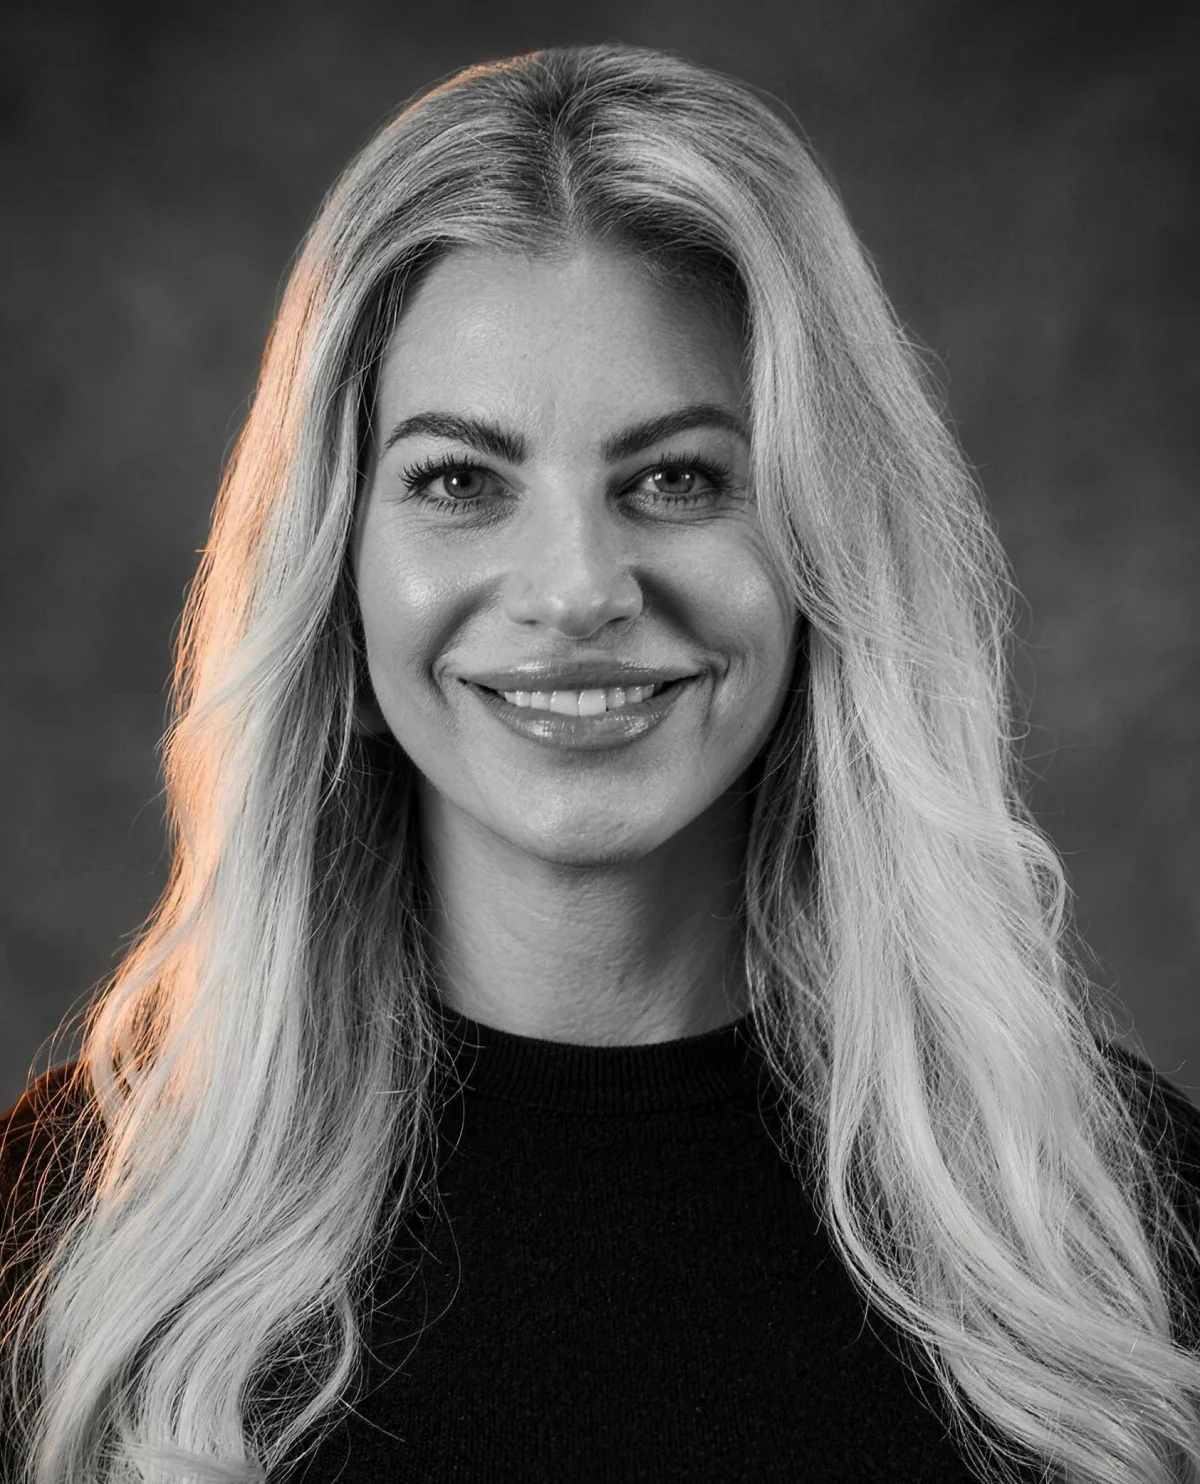
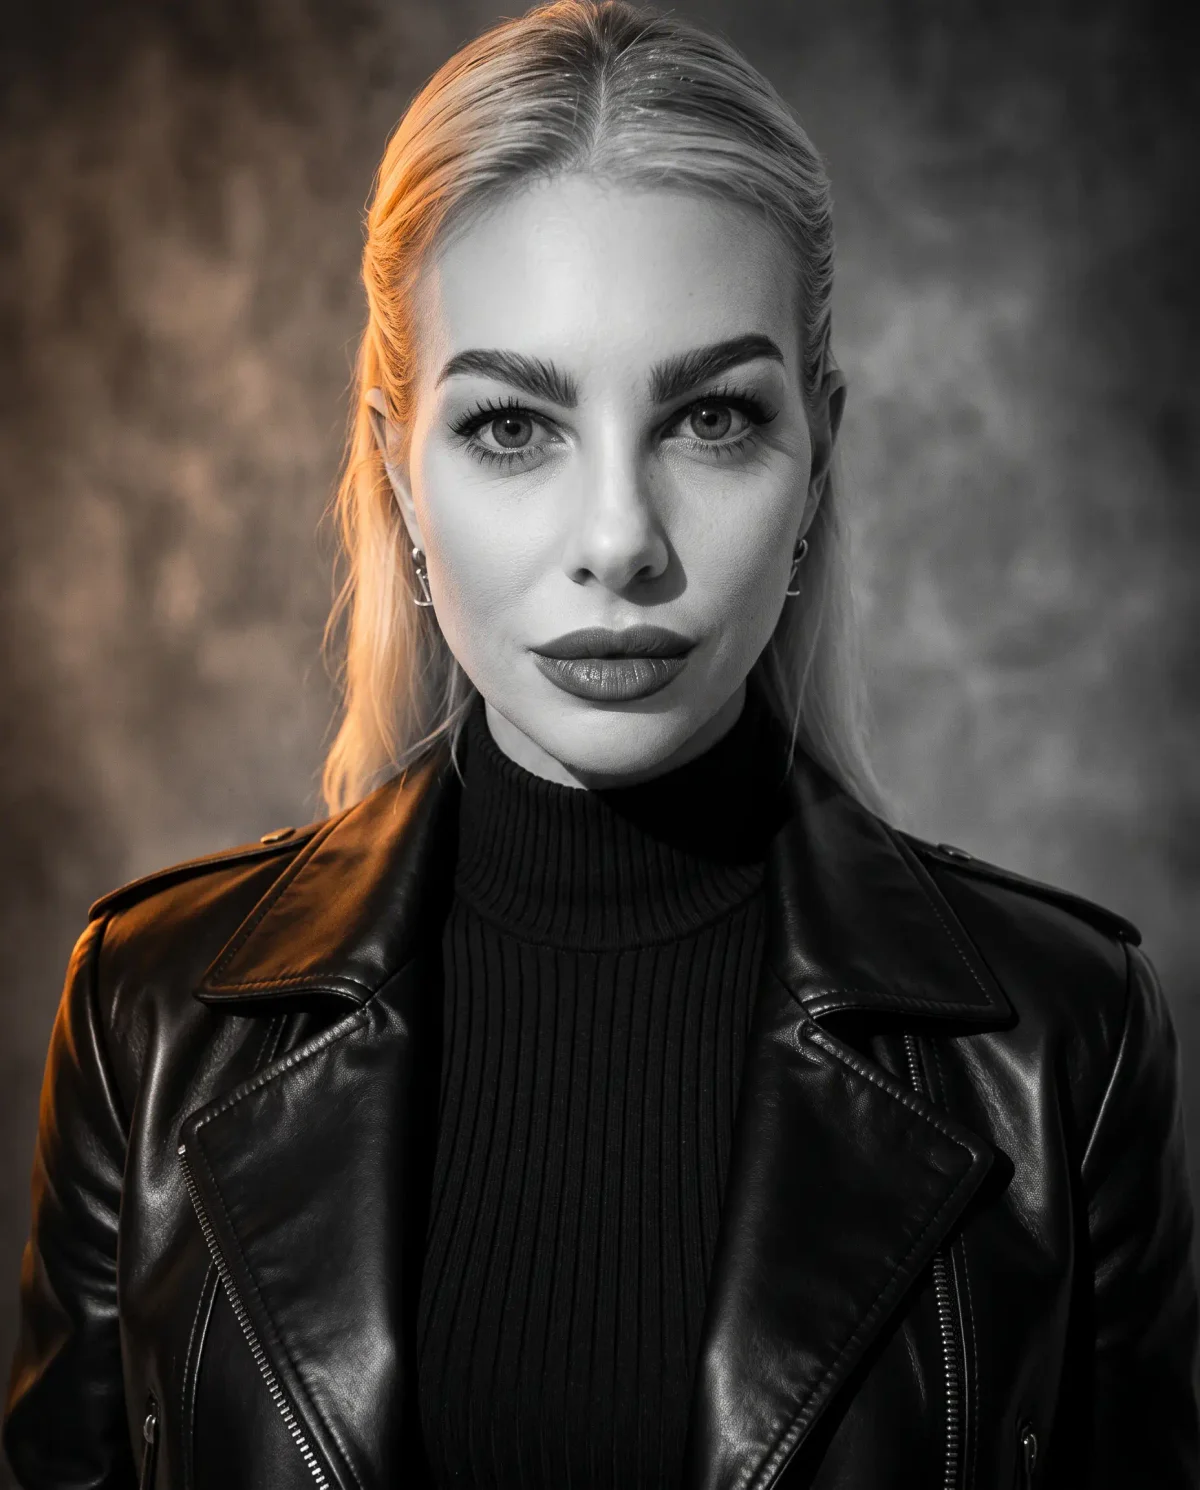
Starsha Green: replace header with new photo, team treatment applied
New supplied photo of Starsha re-graded in Higgsfield to the team
headshot set (moody B&W, mottled canvas backdrop, amber rim light
camera-left) with her likeness, pose and outfit unchanged; sized to
1200x1490 to match the other partner headers.

Claude-Session: https://claude.ai/code/session_019Jp8ow7mRiiLTsfQ4t4Xpb

diff --git a/starsha-green.html b/starsha-green.html
@@ -84,7 +84,7 @@
       </div>
       <figure class="partner-portrait">
         <div class="portrait-frame">
-          <img src="/assets/starsha-green-header.webp" alt="Starsha Green, Zib Digital Partner and Growth Specialist" width="1200" height="1484" loading="eager" fetchpriority="high" decoding="async" />
+          <img src="/assets/starsha-green-header.webp" alt="Starsha Green, Zib Digital Partner and Growth Specialist" width="1200" height="1490" loading="eager" fetchpriority="high" decoding="async" />
         </div>
         <figcaption class="partner-portrait-cap mono">
           <span>Starsha Green</span>
